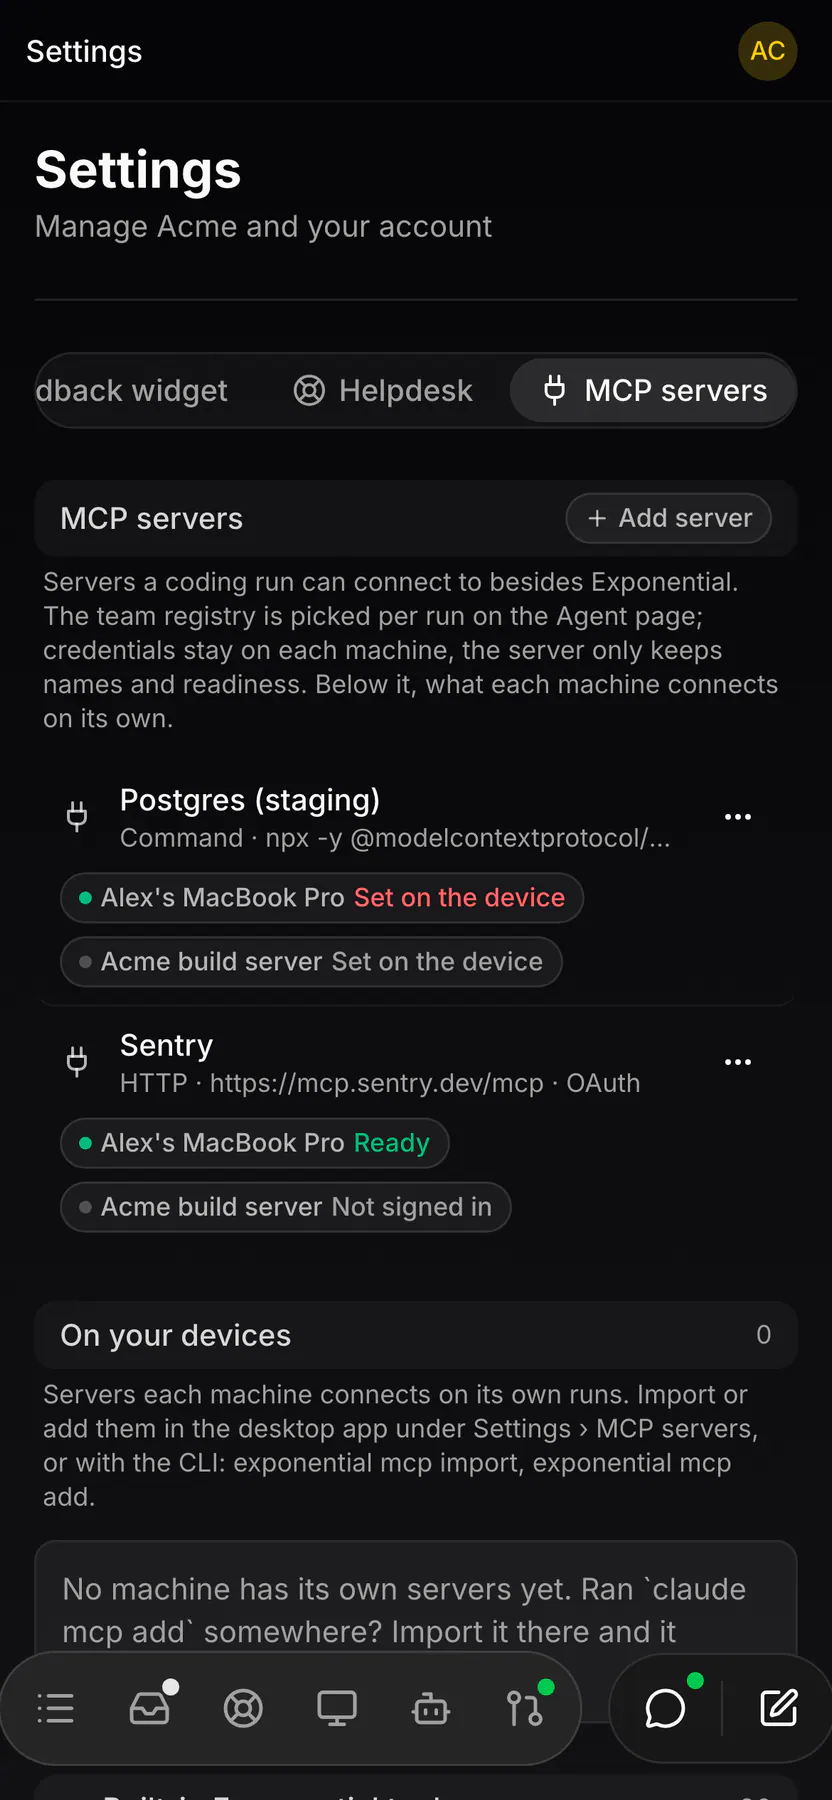
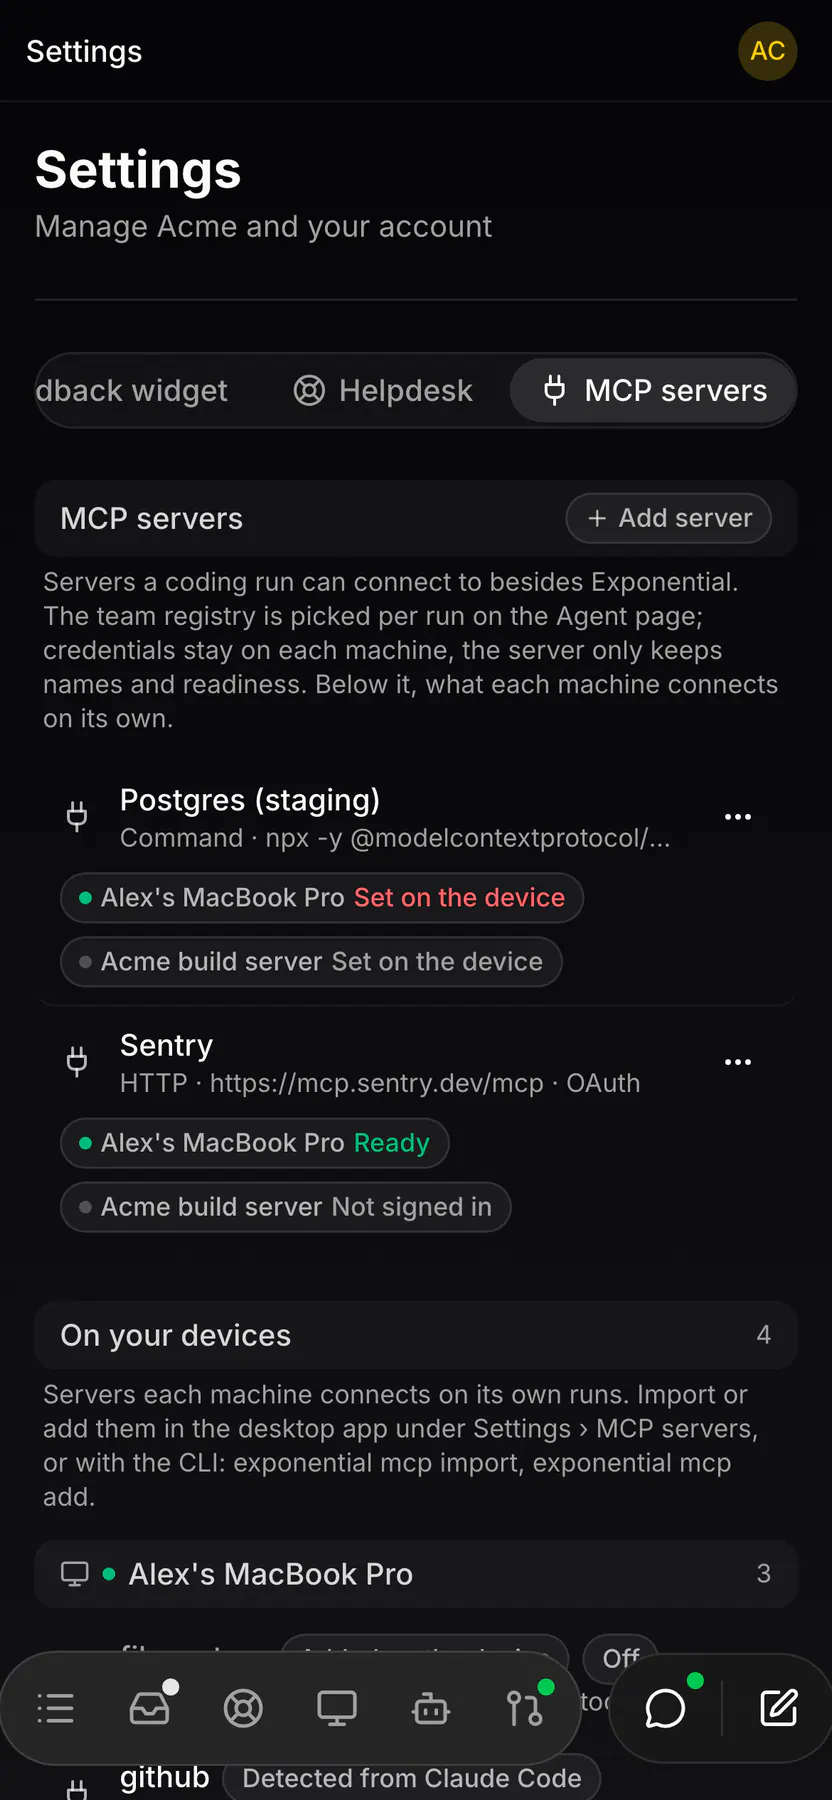
EXP-1008: seed device MCP servers so the settings shot's "On your devices" group is populated
seed:screenshots now inserts the demo user's desktop device row itself
(screenshots:desktop's heartbeat upsert on (user_id, device_id) only refreshes
liveness/report columns) and captures both device uuids, then seeds 4
device_mcp_servers rows: github (detected, claude), playwright (manual),
filesystem (manual, disabled) on the demo desktop, linear (detected, codex) on
Jonas' shared server. Teardown cascades via users -> devices ->
device_mcp_servers. Refreshed the web + web-mobile settings-mcp-servers shots.

diff --git a/apps/web/scripts/seed-screenshots.ts b/apps/web/scripts/seed-screenshots.ts
@@ -39,6 +39,7 @@ import {
   automations,
   codingSessions,
   comments,
+  deviceMcpServers,
   devices,
   issueDrafts,
   issueEvents,
@@ -83,6 +84,7 @@ import {
   DEMO_DEVICE_ID,
   DEMO_SERVER_DEVICE_ID,
   DEMO_DEVICE_LABEL,
+  DEMO_DEVICE_VERSION,
   DEMO_EMAIL,
   DEMO_INVITE_TOKEN,
   DEMO_PENDING_INVITE_EXPIRY,
@@ -1296,9 +1298,10 @@ async function main() {
   // purpose: `last_seen_at` freshness is what "online" means (contract
   // `device.onlineWindowSeconds`, 90s), and a fake heartbeat here would be
   // contradicted by the relay the moment a capture looks. The demo user's own
-  // desktop row is registered by screenshots:desktop, which owns its version
-  // and default-machine flags.
-  await db.insert(devices).values({
+  // desktop row is seeded below (EXP-1008) and kept fresh by
+  // screenshots:desktop, whose heartbeat upsert owns its liveness, version,
+  // default-machine flag and agent report.
+  const [serverDevice] = await db.insert(devices).values({
     userId: jonas,
     deviceId: DEMO_SERVER_DEVICE_ID,
     label: `Acme build server`,
@@ -1310,7 +1313,90 @@ async function main() {
     sharedTeamIds: [ws.id],
     lastSeenAt: hoursAgo(5),
     createdAt: daysAgo(45),
-  })
+  }).returning({ id: devices.id })
+
+  // EXP-1008: the demo user's own desktop, seeded rather than left to the
+  // relay stub, so its per-device MCP servers can hang off the row uuid. The
+  // stub's heartbeat upserts on the same (user_id, device_id) and only
+  // refreshes the liveness + report columns, so nothing here is overwritten
+  // that the captures rely on. Offline until the stub beats (the 90s window).
+  const [demoDevice] = await db.insert(devices).values({
+    userId: demoId,
+    deviceId: DEMO_DEVICE_ID,
+    label: DEMO_DEVICE_LABEL,
+    kind: `desktop`,
+    platform: `macos`,
+    version: DEMO_DEVICE_VERSION,
+    isDefault: true,
+    agents: [`claude`, `codex`],
+    lastSeenAt: hoursAgo(1),
+    createdAt: daysAgo(58),
+  }).returning({ id: devices.id })
+
+  // EXP-891: the per-DEVICE MCP servers (`device_mcp_servers`, reported from
+  // `{data_dir}/mcp/device-servers.json`), so Settings → MCP servers renders
+  // its "On your devices" group instead of the empty hint. The demo desktop
+  // carries one of each state (detected from the agent's config, typed by
+  // hand, typed and switched off); Jonas' shared server one detected row, so
+  // the group shows a teammate's machine too.
+  await db.insert(deviceMcpServers).values([
+    {
+      deviceRowId: demoDevice.id,
+      deviceId: DEMO_DEVICE_ID,
+      userId: demoId,
+      name: `github`,
+      transport: `stdio`,
+      command: `npx`,
+      args: [`-y`, `@modelcontextprotocol/server-github`],
+      source: `detected`,
+      agent: `claude`,
+      enabled: true,
+      createdAt: daysAgo(30),
+      updatedAt: daysAgo(30),
+    },
+    {
+      deviceRowId: demoDevice.id,
+      deviceId: DEMO_DEVICE_ID,
+      userId: demoId,
+      name: `playwright`,
+      transport: `http`,
+      url: `http://localhost:8931/mcp`,
+      source: `manual`,
+      enabled: true,
+      createdAt: daysAgo(12),
+      updatedAt: daysAgo(12),
+    },
+    {
+      deviceRowId: demoDevice.id,
+      deviceId: DEMO_DEVICE_ID,
+      userId: demoId,
+      name: `filesystem`,
+      transport: `stdio`,
+      command: `npx`,
+      args: [
+        `-y`,
+        `@modelcontextprotocol/server-filesystem`,
+        `/Users/demo/Documents`,
+      ],
+      source: `manual`,
+      enabled: false,
+      createdAt: daysAgo(20),
+      updatedAt: daysAgo(6),
+    },
+    {
+      deviceRowId: serverDevice.id,
+      deviceId: DEMO_SERVER_DEVICE_ID,
+      userId: jonas,
+      name: `linear`,
+      transport: `http`,
+      url: `https://mcp.linear.app/mcp`,
+      source: `detected`,
+      agent: `codex`,
+      enabled: true,
+      createdAt: daysAgo(40),
+      updatedAt: daysAgo(40),
+    },
+  ])
 
   // Helpdesk tickets for the support-inbox screenshot (server-only tRPC —
   // no Electric shape involved). A trailing inbound message marks the
@@ -1579,13 +1665,13 @@ Seeded screenshot demo data:
   showcase    ${showcase.identifier ?? `APP-5`} (markdown + ${4} comments incl. @mention + #issue ref)
   inbox       5 notifications (3 unread)
   agents      3 coding sessions (2 running + 1 in review)
-  machines    1 shared team server (offline; the desktop registers itself)
+  machines    demo desktop (offline until screenshots:desktop beats) + 1 shared team server (offline)
   reviews     4 open pull requests
   review shot APP-14 → ${REVIEW_PR_URL} (real diff, fetched from GitHub)
   actions     ${actionRows.length} saved team actions
   automations ${automationRows.length} (2 scheduled + 1 event, 1 disabled) + 2 automated runs
   storage     ${seedAttachments.length} attachments (1 unreferenced image to sweep)
-  mcp         2 team MCP servers (http + stdio; the desktop reports readiness)
+  mcp         2 team MCP servers (http + stdio; the desktop reports readiness) + 4 device MCP servers (3 on the demo desktop, 1 on the shared server)
   widgets     2 widget configs (feedback+support, support-only)
   api keys    2 personal keys
   support     ${seedThreads.length} helpdesk threads
